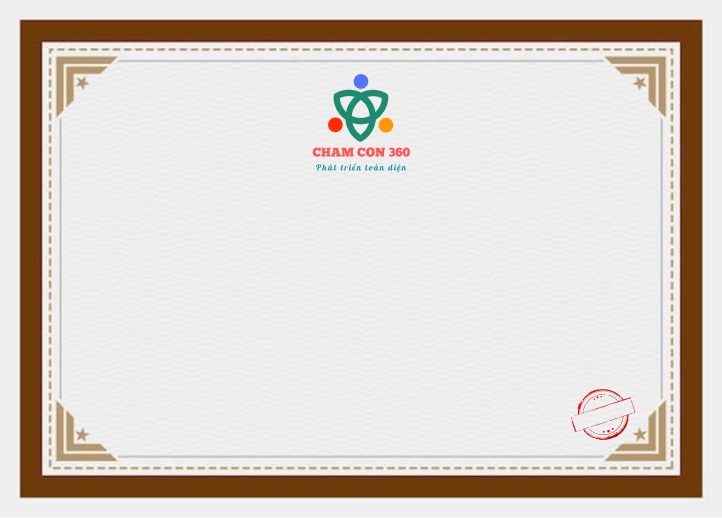
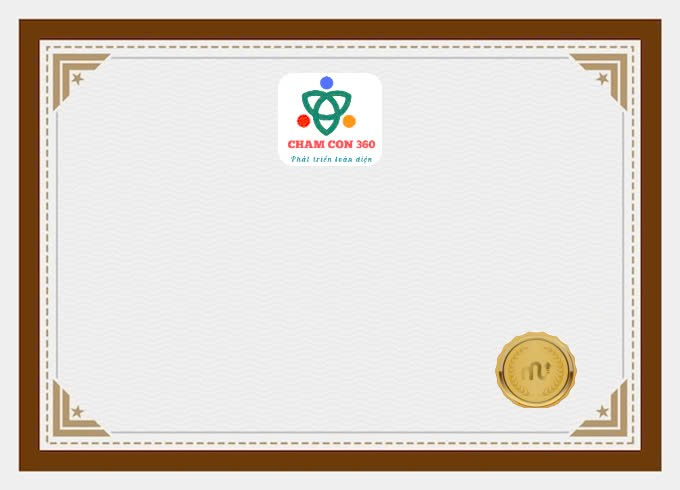
update rating iq service

diff --git a/app/Api/V1/Services/Rating/RatingService.php b/app/Api/V1/Services/Rating/RatingService.php
@@ -100,13 +100,15 @@ class RatingService implements RatingServiceInterface
                 $correctCount++;
             }
         }
-        $result = $totalCount > 0 ? "{$correctCount}/{$totalCount}" : "0/0";
+        $scoreValue = $correctCount * 10;
+        $totalValue = $totalCount * 10;
+        $result = $totalCount > 0 ? "{$scoreValue}/{$totalValue}" : "0/0";
         $data['score'] = $correctCount;
         $data['result'] = $result;
         $data['type'] = $type;
         $data['description'] = $this->getDescriptionByTypeAndScore($type, $correctCount);
         $data['label'] = $this->getLabelByTypeAndScore($type, $correctCount);
-        $description = "Đã xuất sắc nhận được chứng chỉ trực tuyến bằng\n cách hoàn thành bài kiểm tra IQ năng cao.Điểm IQ\n đã được xác định bởi Bài kiểm tra IQ năng cao của\n CHAMCON360.";
+        $description = "Đã xuất sắc nhận được kết quả đánh giá trực tuyến\nbằng cách hoàn thành Bài kiểm tra IQ nâng cao của\nCHAMCON360.";
         $path = $this->createCertificate($childName, $result, $description, now());
         $data['badge_image'] = $path;
         $data['status'] = VerifiedStatus::Active;
@@ -120,18 +122,30 @@ class RatingService implements RatingServiceInterface
         $img = $manager->read(public_path('assets/images/certificate_template.png'));
         $width = $img->width();
         $height = $img->height();
+
+
         $fontLight = public_path('assets/fonts/Roboto-Light.ttf');
         $fontBold = public_path('assets/fonts/Roboto-Bold.ttf');
 
 
-        $x = $width / 2;
-        $yName = $height * 0.39;
-        $yScore = $height * 0.46;
-        $yDesc = $height * 0.62;
-        $yDate = $height * 0.82;
+        $xCenter = $width / 2;
+        $xScore = $width * 0.80;
+        $yScore = $height * 0.31;
+        $yName = $height * 0.42;
+        $yDesc = $height * 0.59;
+        $yDate = $height * 0.74;
         $xDate = $width / 3;
 
-        $img->text($name, $x, $yName, function ($font) use ($fontBold) {
+        $img->text($score, $xScore, $yScore, function ($font) use ($fontBold) {
+            $font->file($fontBold);
+            $font->size(24);
+            $font->color('#FF0000');
+            $font->align('center');
+            $font->valign('middle');
+        });
+
+
+        $img->text($name, $xCenter, $yName, function ($font) use ($fontBold) {
             $font->file($fontBold);
             $font->size(24);
             $font->color('#000');
@@ -139,15 +153,7 @@ class RatingService implements RatingServiceInterface
             $font->valign('middle');
         });
 
-        $img->text("Điểm: " . $score, $x, $yScore, function ($font) use ($fontBold) {
-            $font->file($fontBold);
-            $font->size(20);
-            $font->color('#32CD32');
-            $font->align('center');
-            $font->valign('middle');
-        });
-
-        $img->text($description, $x, $yDesc, function ($font) use ($fontLight) {
+        $img->text($description, $xCenter, $yDesc, function ($font) use ($fontLight) {
             $font->file($fontLight);
             $font->size(18);
             $font->color('#000');
@@ -164,6 +170,17 @@ class RatingService implements RatingServiceInterface
             $font->valign('middle');
         });
 
+        $footerText = "Đây là phiếu ghi nhận kết quả mang tính tham khảo, không phải chứng chỉ hay văn bằng có giá trị pháp lý.";
+        $yFooter = $height * 0.87;
+
+        $img->text($footerText, $xCenter, $yFooter, function ($font) use ($fontLight) {
+            $font->file($fontLight);
+            $font->size(10);
+            $font->color('#333333');
+            $font->align('center');
+            $font->valign('bottom');
+        });
+
         $newFilename = uniqid() . '-certificate.jpg';
         $newImagePath = public_path('uploads/images/certificates/' . $newFilename);
         $path = '/public/uploads/images/certificates/' . $newFilename;
@@ -171,6 +188,7 @@ class RatingService implements RatingServiceInterface
 
         return $path;
     }
+
 
 
     /**

diff --git a/app/Admin/DataTables/Rating/IQ/RatingIQDatable.php b/app/Admin/DataTables/Rating/IQ/RatingIQDatable.php
@@ -37,7 +37,7 @@ class RatingIQDatable extends BaseDataTable
     {
 
         $this->columnAllSearch = [1, 2, 3, 5, 6];
-        $this->columnSearchDate = [5];
+        $this->columnSearchDate = [6];
         $this->columnSearchSelect = [
 
 
@@ -68,7 +68,7 @@ class RatingIQDatable extends BaseDataTable
     {
         $this->customEditColumns = [
             'checkbox' => $this->view['checkbox'],
-            'created_at' => '{{ format_datetime($created_at) }}',
+            'updated_at' => '{{ format_datetime($updated_at) }}',
             'child_id' => function ($rating) {
                 return view($this->view['name'], [
                     'child' => $rating->child,

diff --git a/config/datatables_columns.php b/config/datatables_columns.php
@@ -317,7 +317,7 @@ return [
             'visible' => false
         ],
 
-        'created_at' => [
+        'updated_at' => [
             'title' => 'Ngày tạo',
             'addClass' => 'text-center align-middle',
             'orderable' => false
